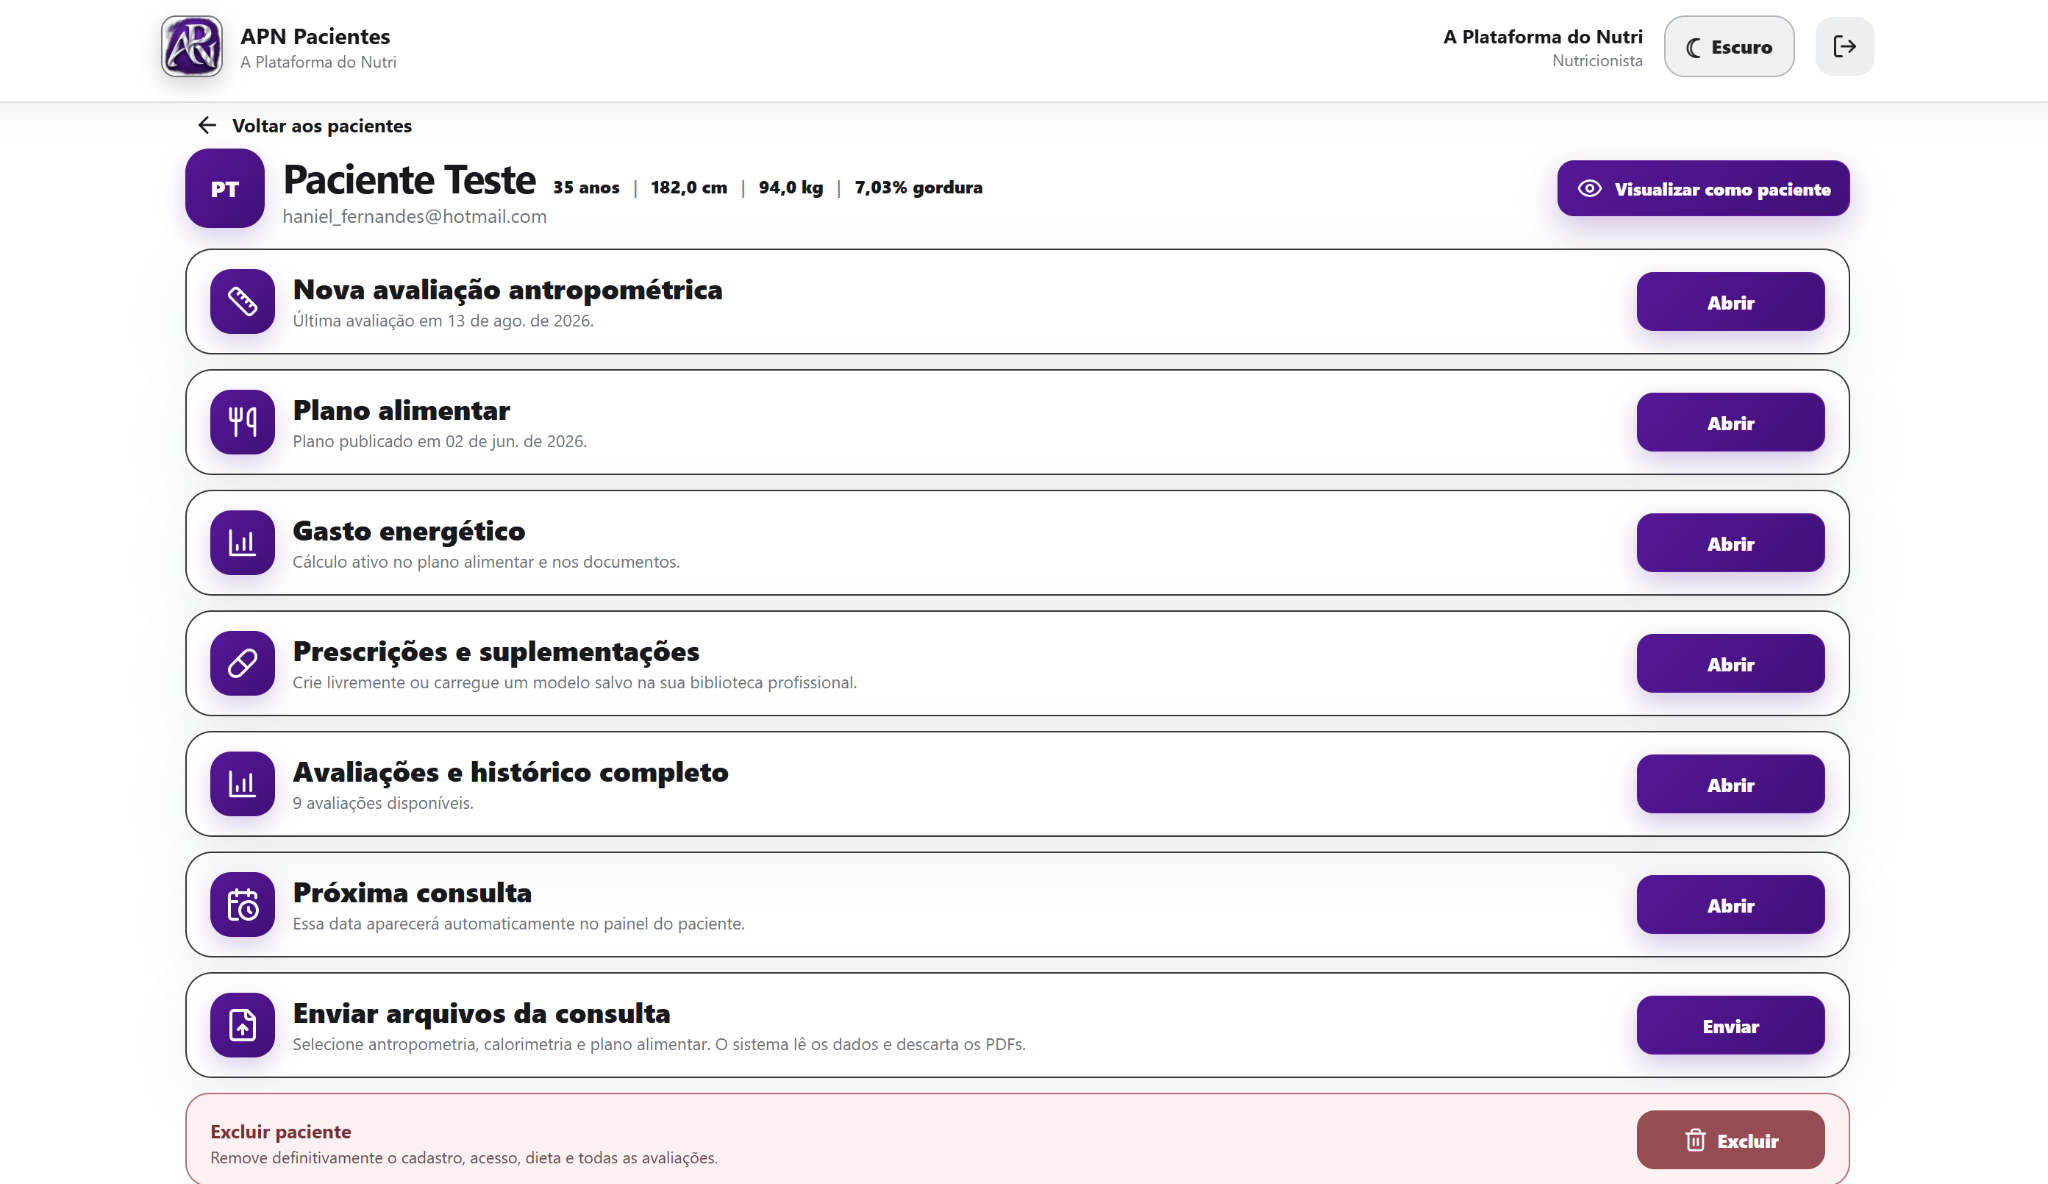
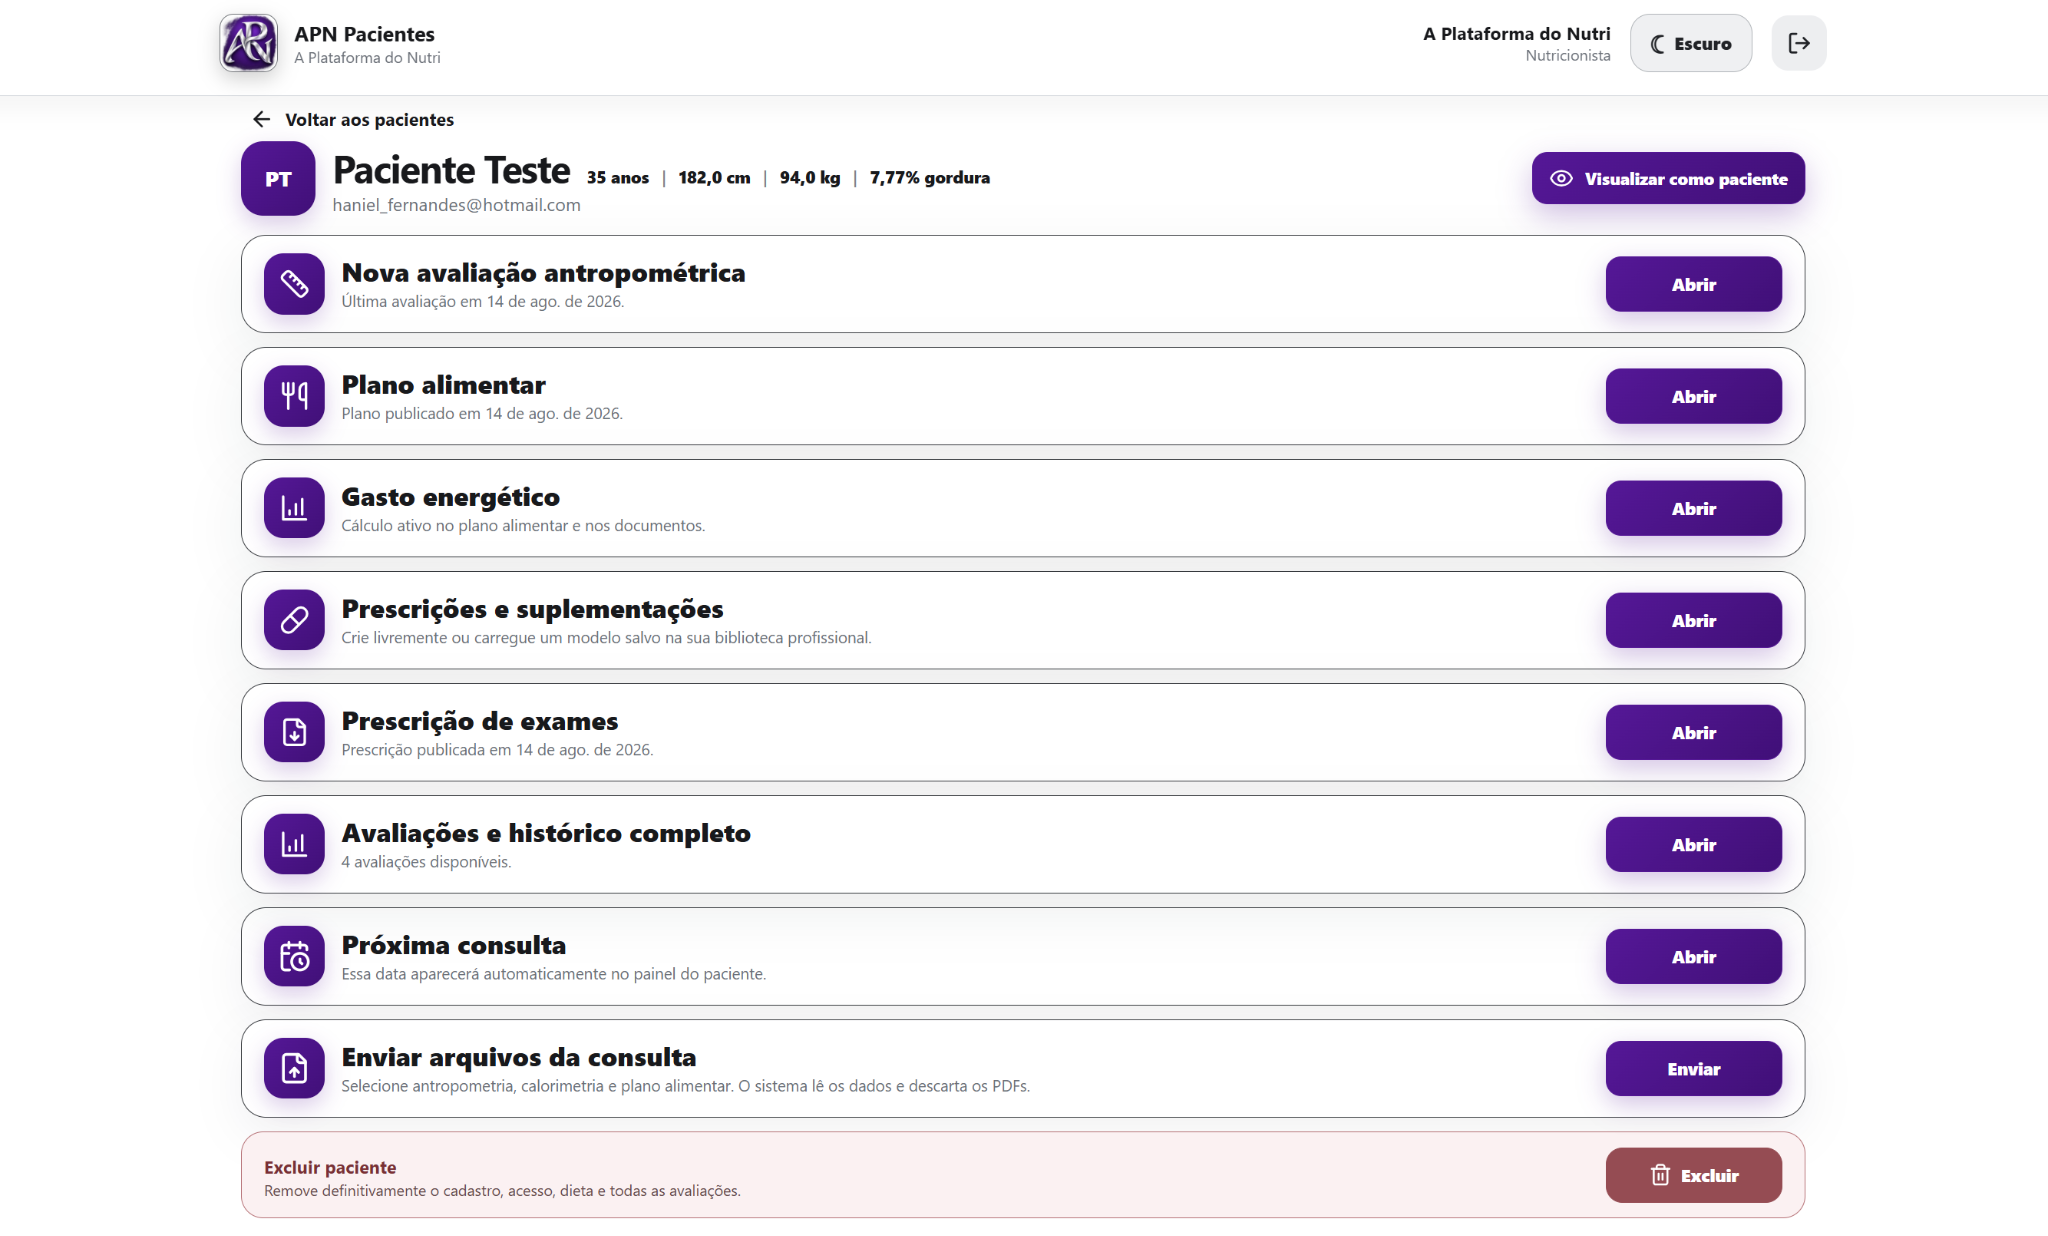
Add files via upload

Changed region(s): [[0.0625, 0.0, 0.9062, 1.0], [0.6875, 0.0, 0.9062, 0.0938]]

diff --git a/index.html b/index.html
@@ -981,7 +981,7 @@ h1,h2,h3,h4,.section-heading h2,.showcase h2,.faq h2,.final-cta h2{font-weight:9
 <h2>Tudo o que você precisa para acompanhar o paciente, <em>organizado em uma única plataforma.</em></h2>
 <p>Acesse avaliações, plano alimentar, gasto energético, prescrições, histórico e próxima consulta sem alternar entre sistemas, planilhas ou documentos.</p>
 </div>
-<div class="tour-shot wide"><img src="visao-geral-paciente-apn.png" alt="Visão geral das ferramentas disponíveis para acompanhamento do paciente na APN"></div>
+<div class="tour-shot wide"><img src="visao-geral-paciente-apn.png" alt="Dashboard atualizado da APN com avaliação antropométrica, plano alimentar, gasto energético, prescrições, prescrição de exames e histórico do paciente"></div>
 </section>
 
 <section class="section product-tour alt" aria-label="Avaliação antropométrica completa">
